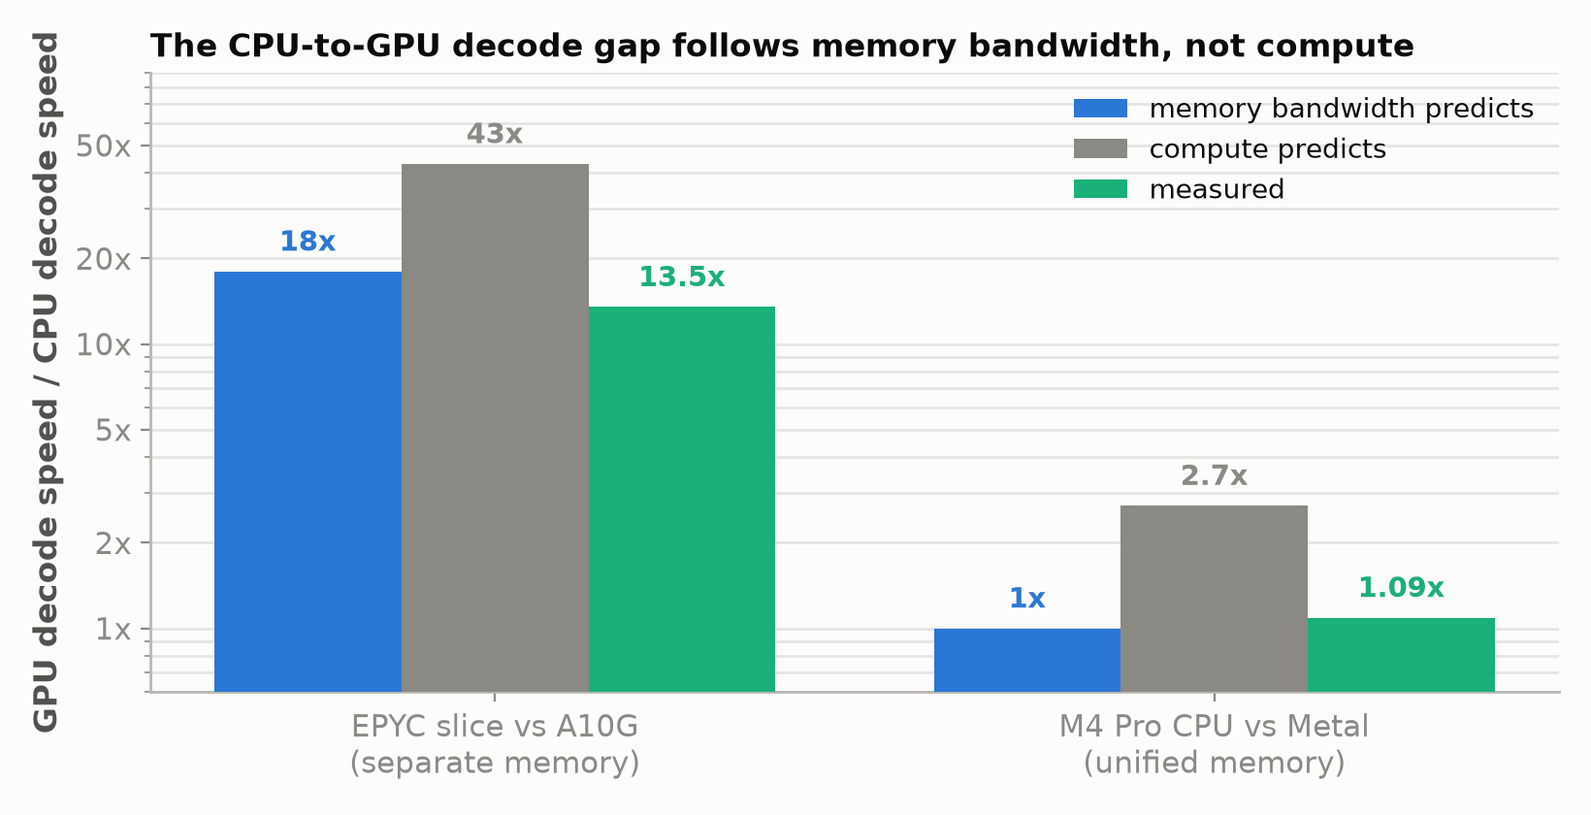
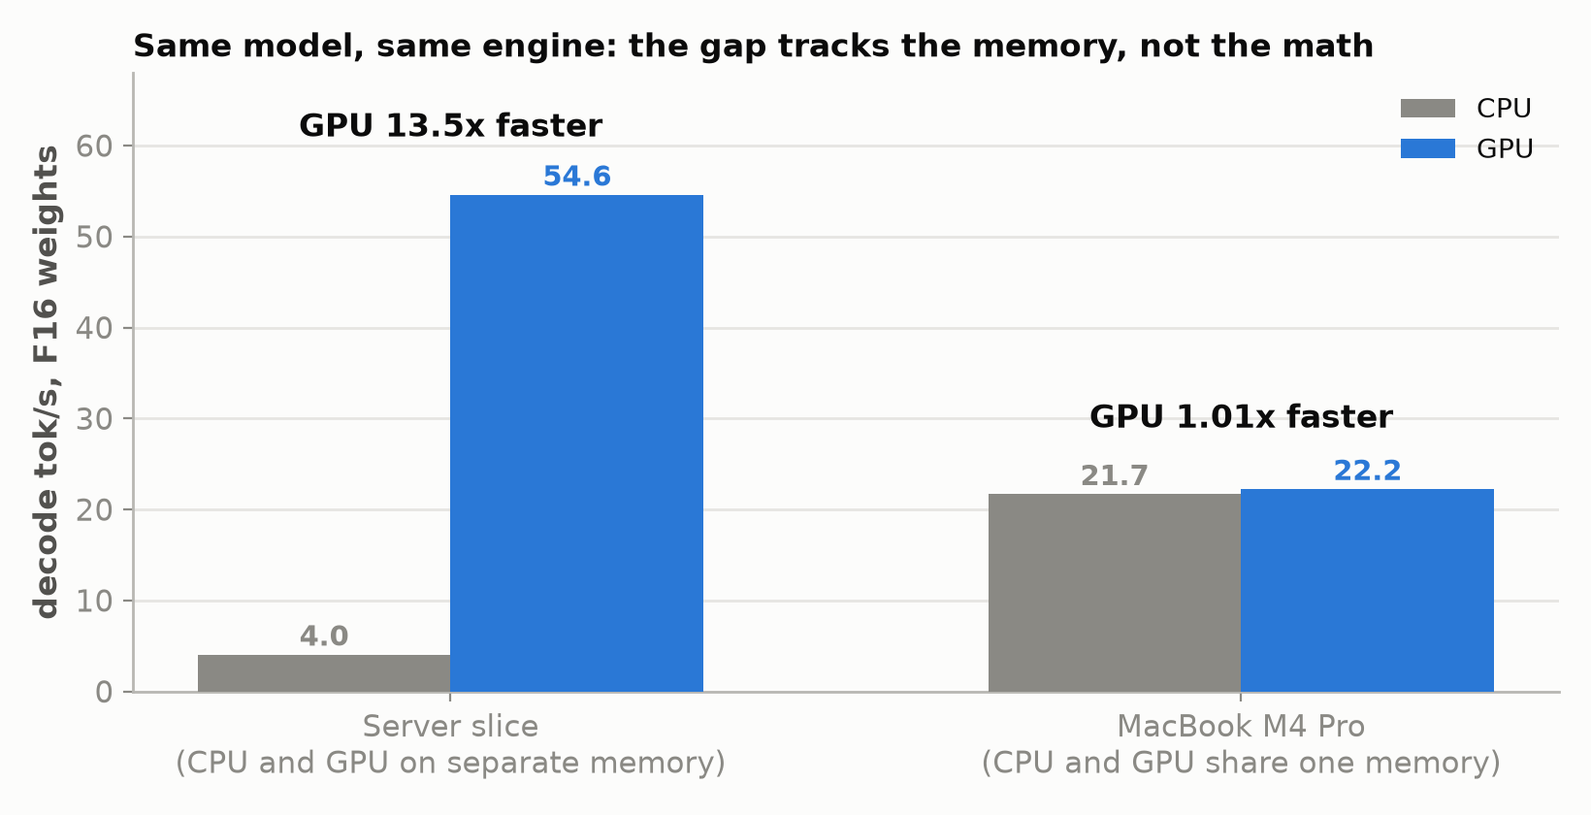
Part 9: MacBook naming, plainer batching section, measured-speed chart
Call the laptop the MacBook throughout. Trim the opening's tech-coverage
sentence. Add Part 1's decode cost and the prefill contrast to the intro, and
the batching result to the short answer. Replace the gap chart's prediction
bars on a log scale with measured F16 decode speed on a linear scale, ratio
overlaid; the table now separates the F16 gap from the all-format median.
Link a bf16 versus fp16 explainer. Rewrite the batching section in plainer
terms with the same table and figure. Drop memory-type names from fig9c.

diff --git a/experiments/09-cpu-decode/render_figs.py b/experiments/09-cpu-decode/render_figs.py
@@ -1,8 +1,7 @@
 #!/usr/bin/env python3
 """Render Part 9 figures from the verified study numbers (see benchmarks/09-cpu-decode).
 
-  fig9a  CPU-to-GPU decode gap on both machines: bandwidth prediction, compute
-         prediction, measured (log scale)
+  fig9a  measured F16 decode speed, CPU and GPU, on both machines, with the ratio overlaid
   fig9b  M4 Pro roofline fit: ms/token vs weight GB, CPU and Metal, Stage 5 medians
   fig9c  byte-identical bf16 vs F16 decode on the EPYC slice and the M4 Pro CPU
 """
@@ -30,33 +29,32 @@ def style_ax(ax):
     ax.grid(axis="y", color=GRID, linewidth=1)
     ax.set_axisbelow(True)
 
-# ---------------- fig9a: gap vs bandwidth ----------------
-groups = ["EPYC slice vs A10G\n(separate memory)", "M4 Pro CPU vs Metal\n(unified memory)"]
-bw_pred   = [18.0, 1.0]
-comp_pred = [43.0, 2.7]
-measured  = [13.5, 1.09]
+# ---------------- fig9a: measured decode speed, F16, both machines ----------------
+# F16 decode tok/s, same engine and weights. Server slice: closeout_ab.md (CPU mean of two
+# rounds, A10G via CUDA). M4 Pro: stage5_summary.txt median of three interleaved rounds.
+groups = ["Server slice\n(CPU and GPU on separate memory)", "MacBook M4 Pro\n(CPU and GPU share one memory)"]
+cpu_tok = [4.035, 21.68]
+gpu_tok = [54.58, 22.24]
+ratios  = ["13.5x", "1.01x"]
 x = np.arange(len(groups))
-w = 0.26
+w = 0.32
 
 fig, ax = plt.subplots(figsize=(8.2, 4.2), dpi=200)
 fig.patch.set_facecolor(BG)
 style_ax(ax)
-ax.grid(axis="y", color=GRID, linewidth=1, which="both")
-b1 = ax.bar(x - w, bw_pred,   w, color=BLUE,  label="memory bandwidth predicts", zorder=3)
-b2 = ax.bar(x,     comp_pred, w, color=MUTED, label="compute predicts", zorder=3)
-b3 = ax.bar(x + w, measured,  w, color=GREEN, label="measured", zorder=3)
-ax.set_yscale("log")
-ax.set_ylim(0.6, 90)
-ax.set_yticks([1, 2, 5, 10, 20, 50])
-ax.set_yticklabels(["1x", "2x", "5x", "10x", "20x", "50x"])
-ax.set_xticks(x, groups)
-ax.set_ylabel("GPU decode speed / CPU decode speed", fontsize=12, fontweight="bold")
-for bars, vals in ((b1, bw_pred), (b2, comp_pred), (b3, measured)):
+bc = ax.bar(x - w / 2, cpu_tok, w, color=MUTED, label="CPU", zorder=3)
+bg = ax.bar(x + w / 2, gpu_tok, w, color=BLUE,  label="GPU", zorder=3)
+for bars, vals, col in ((bc, cpu_tok, MUTED), (bg, gpu_tok, BLUE)):
     for b, v in zip(bars, vals):
-        ax.text(b.get_x() + b.get_width() / 2, v * 1.12, f"{v:g}x", ha="center",
-                va="bottom", fontsize=10.5, fontweight=700, color=b.get_facecolor())
+        ax.text(b.get_x() + b.get_width() / 2, v + 1.0, f"{v:.1f}", ha="center",
+                fontsize=10.5, fontweight=700, color=col)
+ax.text(0, 61, "GPU 13.5x faster", ha="center", fontsize=12, fontweight=700, color=TXT)
+ax.text(1, 29, "GPU 1.01x faster", ha="center", fontsize=12, fontweight=700, color=TXT)
+ax.set_xticks(x, groups)
+ax.set_ylim(0, 68)
+ax.set_ylabel("decode tok/s, F16 weights", fontsize=12, fontweight="bold")
 ax.legend(loc="upper right", frameon=False, fontsize=10)
-ax.set_title("The CPU-to-GPU decode gap follows memory bandwidth, not compute",
+ax.set_title("Same model, same engine: the gap tracks the memory, not the math",
              fontsize=12, fontweight=700, loc="left", color=TXT)
 fig.tight_layout()
 fig.savefig(f"{OUT}/fig9a-gap-vs-bandwidth.png", facecolor=BG)
@@ -98,7 +96,7 @@ fig.savefig(f"{OUT}/fig9b-roofline-fit.png", facecolor=BG)
 print("wrote fig9b")
 
 # ---------------- fig9c: bf16 vs F16, byte-identical ----------------
-machines = ["EPYC slice CPU\n(DDR4, 33 GB/s)", "M4 Pro CPU\n(LPDDR5X, 238 GB/s)"]
+machines = ["Server slice CPU\n(33 GB/s memory)", "MacBook M4 Pro CPU\n(238 GB/s memory)"]
 bf16 = [4.005, 3.92]
 f16  = [4.035, 20.45]
 x = np.arange(2)
@@ -116,8 +114,8 @@ for b, v in zip(bf, f16):
     ax.text(b.get_x() + b.get_width() / 2, v + 0.5, f"{v:.2f}", ha="center",
             fontsize=10.5, fontweight=700, color=BLUE)
 ax.text(0, 8.6, "1.01x", ha="center", fontsize=12, fontweight=700, color=TXT)
-ax.text(1, 23.4, "5.22x", ha="center", fontsize=12, fontweight=700, color=TXT)
-ax.text(0.5, 14.0, "same model, both files exactly 8,665,620,192 bytes",
+ax.text(1, 23.4, "5.2x", ha="center", fontsize=12, fontweight=700, color=TXT)
+ax.text(0.5, 14.0, "same model, both files exactly the same size",
         ha="center", fontsize=10.5, style="italic", color=SOFT)
 ax.set_xticks(x, machines)
 ax.set_ylim(0, 27)

diff --git a/articles/part-9.md b/articles/part-9.md
@@ -5,7 +5,7 @@ image: /assets/diagrams/d11.jpg
 ---
 
 *Part 9 of "The Inference Wall", run off the series' usual rig: Qwen3.5-4B on two very
-different CPUs, a cloud server slice and a laptop, with each machine's own GPU alongside
+different CPUs, a cloud server slice and a MacBook, with each machine's own GPU alongside
 for comparison. Draft.*
 
 *Manas Pathak · draft, October 2026*
@@ -13,27 +13,31 @@ for comparison. Draft.*
 [The Inference Wall]({{ '/' | relative_url }}) · [All posts]({{ '/articles/' | relative_url }}) · **Part 9**
 
 When I started learning about LLMs, I assumed that running one meant running it on a GPU.
-Most of the tech coverage I read was about GPUs and about serving many requests on them in
-parallel, and I took it for granted that a CPU was simply too slow for the matrix
+Most of the tech coverage I read was about GPUs, and I took it for granted that a CPU was simply too slow for the matrix
 arithmetic an LLM needs. The story turns out to be more nuanced than that, and it matters,
 because CPUs are everywhere, in every laptop, phone, and server, often sitting idle and
 rarely thought of as an AI platform. If the claim this series is built on is right, that
 decode is limited by how fast memory can be read rather than by how fast the chip can do
 math, then whether a CPU can run a model well should depend mostly on how fast it can read
 memory. This post takes the same model and the same engine to two
-CPUs with very different memory, a cloud server slice and a laptop, each with its own GPU
+CPUs with very different memory, a cloud server slice and a MacBook, each with its own GPU
 alongside, and works out where a CPU is fine and where it is not.
 
 The short answer is that it comes down to memory bandwidth rather than compute capacity.
-On a laptop with fast memory, the CPU runs the model within about 2.5x of a mid-range
+On a MacBook with fast memory, the CPU runs the model within about 2.5x of a mid-range
 datacenter GPU for one user. On a cloud
-server slice with slow memory, the CPU is 13x behind. Where a CPU falls down is serving
-many users at once.
+server slice with slow memory, the CPU is 13x behind. Where a CPU falls down is serving many users at once: a GPU can share one read of the
+weights across a large batch of requests and keep getting faster, while a CPU soon runs
+out of arithmetic and stops gaining.
 
 The claim under test is the one from the [primer]({{ '/articles/primer/' | relative_url }})
 and [Part 1]({{ '/articles/part-1/' | relative_url }}): to produce each token, the
-machine reads the entire model's weights from memory once. Written as the time one token
-takes, the claim is a line with two terms:
+machine reads the entire model's weights from memory once. Part 1 measured what that costs
+on the A10G: a decode token took about 20 ms, nearly all of it the 19 ms needed to stream
+the weights, while the arithmetic for that token takes about 0.13 ms. Prefill is the
+opposite case, because the whole prompt goes through in one pass and every weight read is
+shared by all the prompt's tokens, so prefill time is set by the arithmetic. Written as
+the time one decode token takes, the claim is a line with two terms:
 
 ```
 time per token  =  weight bytes / memory bandwidth  +  fixed cost per token
@@ -73,15 +77,15 @@ and each sits next to a GPU so the CPU-to-GPU gap can be measured on the same bo
   slice of the socket's memory system, not the whole socket; a full EPYC socket with all eight of its memory channels in use delivers roughly
   200 GB/s. The CPU and the GPU sit on separate memory pools with a large cliff between
   them: the A10G's nominal bandwidth is 600 GB/s.
-- **A laptop.** An Apple M4 Pro, with its memory on a bus about as wide as a GPU's and its
+- **A MacBook.** An Apple MacBook with an M4 Pro chip, with its memory on a bus about as wide as a GPU's and its
   own GPU on the same chip. Measured streaming bandwidth is **238 GB/s**, about seven times
   the server slice. Its CPU and GPU share the same
   physical memory and the same bandwidth. There is no cliff, by construction.
 
-So the server slice has a CPU with laptop-class memory and a GPU with datacenter memory,
-and the laptop has a CPU and a GPU with identical memory. If decode is bandwidth-bound,
+So the server slice has a CPU with modest memory bandwidth and a GPU with datacenter memory,
+and the MacBook has a CPU and a GPU with identical memory. If decode is bandwidth-bound,
 the CPU-to-GPU gap should be large on the first machine and close to 1x on the second,
-and the laptop's CPU should beat the server's CPU by about the bandwidth ratio.
+and the MacBook's CPU should beat the server's CPU by about the bandwidth ratio.
 
 The engine is [llama.cpp](https://github.com/ggml-org/llama.cpp), because it is the one
 engine that runs the identical code on a CPU, an Apple GPU, and an NVIDIA GPU. The series' own engine was ruled out first: vLLM's CPU backend
@@ -96,13 +100,13 @@ Each machine offers two competing predictions for how much faster its GPU should
 than its CPU: the ratio of their memory bandwidths, or the ratio of their math rates.
 The two predictions differ enough to tell apart.
 
-| | Server slice + A10G | M4 Pro CPU + GPU |
+| | Server slice + A10G | MacBook M4 Pro CPU + GPU |
 |---|---|---|
 | Bandwidth ratio predicts | 600 / 33 = **18x** | 238 / 238 = **1.0x** |
 | Compute ratio predicts | **43x** | **2.7x** |
-| Measured decode gap, same engine, same weights | **13.5x** at F16, 12.2x at Q4 | **1.09x** |
+| Measured decode gap, same engine, same weights | **13.5x** at F16, 12.2x at Q4 | **1.01x** at F16, 1.09x across all formats |
 
-![Two groups of three bars on a log scale: for the server slice the bandwidth prediction of 18x sits near the measured 13.5x while the compute prediction of 43x is far above; for the M4 Pro the bandwidth prediction of 1x sits on the measured 1.09x while compute predicts 2.7x](../assets/figures/fig9a-gap-vs-bandwidth.png)
+![Measured decode speed with F16 weights: on the server slice the CPU makes 4.0 tokens per second and the A10G 54.6, 13.5x faster; on the MacBook the CPU makes 21.7 and its GPU 22.2, 1.01x faster](../assets/figures/fig9a-gap-vs-bandwidth.png)
 
 On the server slice, bandwidth predicts 18x and the measurement is 13.5x, with the GPU
 reaching about 79% of its nominal bandwidth in decode, which is in line with
@@ -112,23 +116,24 @@ a second, to the CPU's 0.72 trillion; the GPU's specialized matrix units run fou
 faster still, which would make the compute prediction 174x. Either way compute is off by a factor of three or more and
 bandwidth is the right frame.
 
-On the laptop the two engines share one memory bus, so bandwidth predicts no gap at all.
+On the MacBook the two engines share one memory bus, so bandwidth predicts no gap at all.
 Measured with the CPU and GPU runs taken in alternating pairs, so each pair saw the same
-chip temperature, the GPU decodes **1.09x** faster, the median of twelve pairs, and in one
-of them the CPU won outright. Compute predicts 2.7x, so two engines whose math rates
+chip temperature, the GPU decodes **1.09x** faster, the median of twelve pairs across four weight formats,
+and in one of them the CPU won outright. With F16 weights alone, the case in the chart, the
+two are within 1%. Compute predicts 2.7x, so two engines whose math rates
 differ by 2.7x decode at nearly the same speed when they share a memory bus, which
 is only possible if decode never depended on the math.
 
 Prefill serves as the control. Because it is compute-bound, the GPU should keep its
-advantage on the laptop even though the memory is shared, and it does: GPU prefill is 2.9 to 3.5x the CPU's across the weight sizes, against the 2.7x compute ratio. Same machine, same memory,
+advantage on the MacBook even though the memory is shared, and it does: GPU prefill is 2.9 to 3.5x the CPU's across the weight sizes, against the 2.7x compute ratio. Same machine, same memory,
 one phase closes to 1x and the other stays at 3x. That is the compute-versus-bandwidth
 split in one pair of columns.
 
 In the equation's terms, both machines are in the regime where the first term is nearly
 the whole token, so the ratio of two chips' decode speeds is the ratio of their memory
 bandwidths and nothing else. The server tests that with a large prediction, 18x, which is
-hard to fake. The laptop tests it with a null prediction, 1x, which many wrong models
-would also make, so the laptop's real evidence is the next section.
+hard to fake. The MacBook tests it with a null prediction, 1x, which many wrong models
+would also make, so the MacBook's real evidence is the next section.
 
 ## Decode time is a straight line in bytes
 
@@ -152,20 +157,21 @@ enough to measure that they get a post of their own.
 
 This is the cleanest measurement in the study. The model was saved in two 16-bit formats,
 bf16 and F16. The two files are the same size to the byte, so the number of bytes read per token is
-identical. The two formats split their 16 bits differently, but for a bandwidth argument
-only the byte count matters: if decode is "read all the bytes," both files must decode at the same
+identical. The two formats split their 16 bits differently, trading precision for range, as
+[this comparison of bf16 and fp16](https://www.beam.cloud/blog/bf16-vs-fp16) explains, but
+for a bandwidth argument only the byte count matters: if decode is "read all the bytes," both files must decode at the same
 speed on the same machine.
 
 | machine | bf16 decode | F16 decode | F16 / bf16 |
 |---|---|---|---|
 | Server slice CPU | 4.0 tok/s | 4.0 tok/s | **1.01x** |
-| M4 Pro CPU | 3.9 tok/s | 20.5 tok/s | **5.2x** |
+| MacBook M4 Pro CPU | 3.9 tok/s | 20.5 tok/s | **5.2x** |
 
 ![Grouped bars of decode speed for the bf16 and F16 files on both machines: on the server slice the two bars are equal at about 4 tokens per second, on the M4 Pro CPU the F16 bar is five times the bf16 bar](../assets/figures/fig9c-bf16-vs-f16.png)
 
-On the server they do, to within about 1%. On the laptop they do not: F16 decodes 5.2x faster, with the
+On the server they do, to within about 1%. On the MacBook they do not: F16 decodes 5.2x faster, with the
 hardware and the byte count held constant. The reason is software: llama.cpp has a fast hand-tuned vector kernel for F16 and only a slow generic path for
-bf16 on this CPU. On the laptop, decode from the bf16 file is bottlenecked on that slow kernel long before
+bf16 on this CPU. On the MacBook, decode from the bf16 file is bottlenecked on that slow kernel long before
 it reaches the memory wall, at about 34 GB/s effective on a 238 GB/s machine. This is the
 one case the equation does not cover: the bytes arrive faster than the kernel can consume
 them, so the machine has fallen off the line and is limited by how fast it can execute
@@ -186,52 +192,57 @@ lands exactly on a hardware ceiling, that agreement is evidence only if the ceil
 high enough that a coincidence is unlikely, which makes fast hardware a better measuring instrument as well as faster hardware.
 Part 10 is about what else that instrument shows.
 
-## The headline that says a laptop beats a GPU
+## The headline that says a MacBook beats a GPU
 
-You may have seen the claim that an Apple laptop matches or beats a datacenter GPU at
+You may have seen the claim that a MacBook matches or beats a datacenter GPU at
 LLM inference. The study's own numbers show where it comes from. The M4 Pro CPU decodes Q4 weights at about 52 tok/s, and the A10G decodes F16 weights at
-55. Side by side, the laptop CPU "matches" the GPU.
+55. Side by side, the MacBook CPU "matches" the GPU.
 
 Those are different weight sizes. Q4 streams a quarter of the bytes per token that F16
-does, so the comparison handed the laptop a model that reads a quarter of the bytes and
+does, so the comparison handed the MacBook a model that reads a quarter of the bytes and
 the GPU one that reads four times as many. Hold the format fixed and the picture is
-plain: at Q4 the A10G does 121 tok/s to the laptop's 52, 2.3x ahead; at F16 it does 55
+plain: at Q4 the A10G does 121 tok/s to the MacBook's 52, 2.3x ahead; at F16 it does 55
 to 20, 2.7x ahead. The GPU wins at every format because it has more memory bandwidth and
 decode is bandwidth-bound.
 
-The result worth keeping is the one underneath: a laptop CPU gets within 2.5x of a mid-range datacenter GPU on single-user decode at all, which no CPU could do a generation ago. That
+The result worth keeping is the one underneath: a MacBook CPU gets within 2.5x of a mid-range datacenter GPU on single-user decode at all, which no CPU could do a generation ago. That
 closeness is the memory bus. On the F16 file the M4 Pro CPU pulls 177 GB/s of effective decode bandwidth against 35 on
 the server slice. That is a 5x gap rather than the full 7x, because the slice runs decode
-at its memory ceiling while the laptop reaches about three quarters of its own. Part 10
+at its memory ceiling while the MacBook reaches about three quarters of its own. Part 10
 looks at what else changes once memory is that fast.
 
 ## Many users at once
 
-Everything above is one request at a time, and that is where a CPU looks best. Batching
-is the GPU's real headline in this series: Part 3 showed one weight read serving over a
-hundred sequences, lifting the A10G from 49 to 1,091 tok/s, a 22x gain. A CPU can batch too, and the question is how far.
+Everything above is one request at a time, and that is where a CPU looks best. Serving
+many users is a different job, and [Part 3]({{ '/articles/part-3/' | relative_url }})
+showed the trick a GPU uses for it. When several requests are in flight, the server reads
+the weights once per step and uses that single read to produce the next token for every
+request, so the cost of the read is split across all of them. That took the A10G from 49
+to 1,091 tok/s, a 22x gain. A CPU can do the same thing, and the question is how far it
+gets.
 
-Batching adds a term to the equation. With B requests in flight, one weight read serves B
-tokens, so the streaming term is shared and a third term, the math, appears:
+Sharing the read helps only while reading is the slow part. Each request still needs its
+own arithmetic, so as the batch grows the read gets cheaper per token while the
+arithmetic per token stays the same, and eventually the arithmetic is what the chip spends
+its time on. The equation grows a third term to show it, with B the number of requests
+sharing each read:
 
 ```
 time per token  =  weight bytes / (B x bandwidth)  +  math per token / compute rate  +  fixed cost
 ```
 
-At B equal to one the math term is negligible on any chip, which is why compute never
-mattered above. As B grows the streaming term shrinks and the math term does not, and at
-some B they cross: decode stops being memory-bound and becomes compute-bound. Where the
-crossover sits is set by the chip's math rate divided by its memory rate, in operations
-per byte read. Single-stream decode needs about one operation per byte, and whatever the
-chip has beyond that is batching headroom. The A10G has about 50. The M4 Pro CPU has
-about 13. The server slice has about 20. So
-batching should help the server CPU by up to an order of magnitude and then stop, because
-its math ceiling is 43x below the GPU's. The slice's own prefill number already
-shows the amortization: a 512-token prompt shares one weight read, and bf16 prefill runs
-at 40 tok/s against 3.9 for decode, a 10x lift.
+With one request the middle term is tiny on any chip, which is why compute never mattered
+above. How large a batch a chip can absorb before that term takes over depends on how much
+arithmetic it can do for every byte it reads. A single request needs about one operation
+per byte. The A10G can do about 50 per byte, the MacBook's CPU about 13, and the server
+slice's CPU about 20, so the server CPU should gain up to about tenfold from batching and
+then stall, at a ceiling 43x below the GPU's. Its prefill already hints at this, because a
+512-token prompt also shares one read of the weights across many tokens: bf16 prefill runs
+at 40 tok/s against 3.9 for one-at-a-time decode, a 10x gain.
 
-Measured the same way on both machines, with a short prompt and 128 generated tokens per
-sequence, aggregate decode tokens per second as the number of concurrent sequences grows:
+Here is the measurement, taken the same way on the server slice's CPU and its A10G, with a
+short prompt and 128 generated tokens per request, counting total tokens per second across
+all requests:
 
 | Concurrent sequences | 1 | 2 | 4 | 8 | 16 | 32 | 64 | 128 |
 |---|---|---|---|---|---|---|---|---|
@@ -242,21 +253,20 @@ sequence, aggregate decode tokens per second as the number of concurrent sequenc
 
 ![Aggregate decode throughput against concurrent sequences on log axes: the two server CPU curves rise and flatten together at about 26 tokens per second by 32 sequences, while the two A10G curves keep rising to 552 and 885 at 128](../assets/figures/fig9d-batched-decode.png)
 
-Batching lifts the CPU's bf16 run 7.4x and its Q4 run 2.8x, and then both stop. The detail
-that shows why is that bf16 and Q4, 2.6x apart at one sequence, have converged on the same 26 tok/s by 32. Once the
-weight read is shared across the batch, bytes per token stop mattering and the math rate
-binds, so the one lever that moved single-stream decode, quantization, stops moving it.
-That is the compute ceiling the operations-per-byte arithmetic predicted, reached at about a third of the
-slice's measured matrix-multiply peak. The GPU lifts 8x over the same range and keeps climbing to 552
-tok/s at 128 sequences, with Q4 still well ahead of F16 because its bandwidth has not run
-out. At one sequence the same-engine gap is 15x, and at 32 it is 17x. Where the CPU has
-stopped and the GPU has not, it is 21x at F16 and 34x at Q4, and still opening.
+The CPU's gains run out quickly. The bf16 run speeds up 7.4x and the Q4 run 2.8x, and by
+32 requests both have stalled at the same 26 tok/s. That convergence is the tell. For one
+user, Q4 was 2.6x faster than bf16 because it has fewer bytes to read; once the read is
+shared, the bytes stop mattering, the arithmetic sets the pace, and Q4's advantage
+disappears. The GPU keeps going. It gains 8x by 32 requests and is still climbing at 128,
+reaching 552 tok/s with F16 weights and 885 with Q4. The gap between the CPU and the GPU
+grows from 15x with one request to 17x at 32 for F16, and to 21x for F16 and 34x for Q4 at
+the point where the GPU is still gaining and the CPU has stopped.
 
-So the answer to where a CPU is fine has two halves. For a single user on a machine with fast memory, a CPU decodes within a factor of two or
-three of a mid-range datacenter GPU, and the
-gap is the bandwidth gap. For many users, the gap reopens to the compute gap, because
-once reads are shared it is math that binds, and that is the one place the GPU is far
-ahead. Decode on a CPU is viable, and serving a crowd from one is not.
+So the answer to where a CPU is fine has two halves. For one user on a machine with fast
+memory, a CPU decodes within a factor of two or three of a mid-range datacenter GPU, and
+the gap is the memory-bandwidth gap. For many users, the gap grows toward the compute gap,
+because once the read is shared the arithmetic sets the pace, and arithmetic is where the
+GPU is far ahead. A CPU can run a model well for one person, and it cannot serve a crowd.
 
 ## What to take away
 
@@ -272,7 +282,7 @@ ahead. Decode on a CPU is viable, and serving a crowd from one is not.
    2.7x different math rates.
 4. **A low ceiling can confirm a wrong explanation.** Two byte-identical files decode about 1.01x apart on the slow machine and 5.2x apart on
    the fast one. Only the fast one could show that a kernel rather than memory set the speed.
-5. **"Laptop beats GPU" compares different weight sizes.** At matched format the A10G
+5. **"MacBook beats GPU" compares different weight sizes.** At matched format the A10G
    leads the M4 Pro CPU by 2.3 to 2.7x. The remarkable part is that a CPU is that close
    at all, and the reason is the memory bus Apple put under it.
 6. **A CPU is fine for one user with fast memory, and not for a crowd.** Batching lifts
@@ -288,7 +298,7 @@ server slice and the A10G only. The F16 file was produced from the bf16 file wit
 `llama-quantize`, which is why the two are byte-identical at 8,665,620,192 bytes each. CPU runs use `-ngl 0`, Metal
 runs `-ngl 99`, CUDA runs `-ngl 99`. The M4 Pro CPU-versus-GPU ratio interleaves the two
 engines round-robin so each pair runs at the same chip temperature, because absolute
-speed on the laptop drifts by up to 20% over a long session. The microbenchmarks, bench
+speed on the MacBook drifts by up to 20% over a long session. The microbenchmarks, bench
 drivers, and figure renderer are in
 [`experiments/09-cpu-decode/`](https://github.com/mapathak-commits/inference-wall/tree/main/experiments/09-cpu-decode);
 the raw bench tables, JSONL, and the Mac study's audit ledger are in
